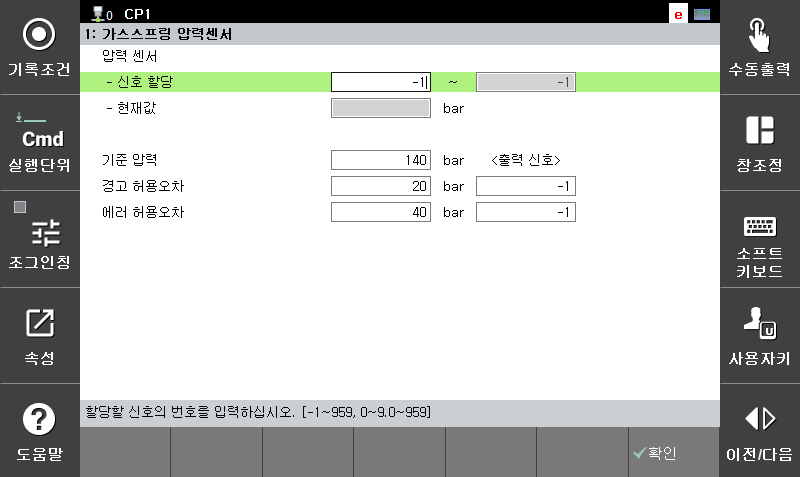
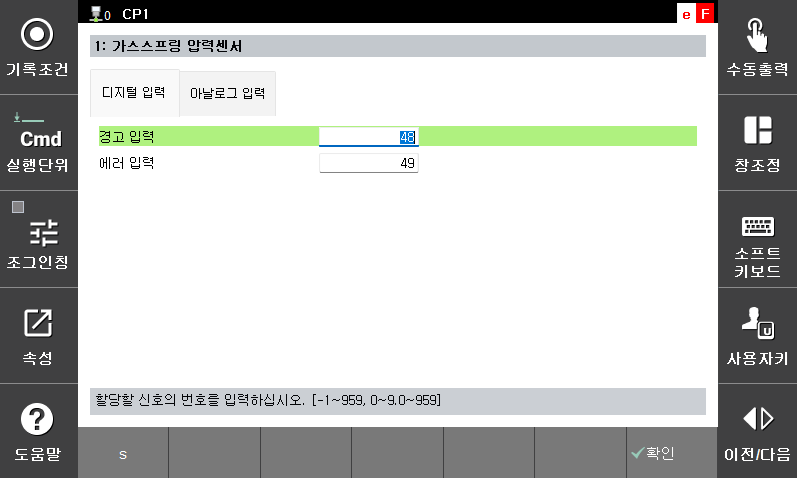
[HIXM-5044] 가스스프링 압력센서 디지털 입력 인터페이스 개발

diff --git a/7-system/4-robot-parameter/13-system-diagnosis/1-gas-spring-pressure_sensor.md b/7-system/4-robot-parameter/13-system-diagnosis/1-gas-spring-pressure_sensor.md
@@ -1,8 +1,40 @@
 # 7.4.13.1 가스스프링 압력센서
 
-가스스프링 압력센서 기능은 가스스프링을 사용하고 여기에 당사에서 지정한 압력센서(PU5400)가 부착된 로봇에서 상시 압력센서의 값을 읽어 가스스프링의 압력 이상을 검출하기 위해 사용합니다.  <br> 
+가스스프링 압력센서 기능은 가스스프링을 사용하고 여기에 당사에서 지정한 압력센서(PN2570)가 부착된 로봇에서 디지털 입력에 의해 경고나 에러를 발생한다던지 또는 아날로그 입력에 의해 상시 압력센서의 값을 읽어 가스스프링의 압력 이상을 검출하기 위해 사용합니다.  <br> 
 
+[디지털 입력] <br>
 ![](../../../_assets/tp630/gasp_sensor.png)
+<table>
+  <thead>
+    <tr>
+      <th style="text-align:left">항목</th>
+      <th style="text-align:left">설명</th>
+    </tr>
+  </thead>
+  <tbody>
+    <tr>
+      <td style="text-align:left">
+        경고 입력
+      </td>
+      <td style="text-align:left">
+        경고를 입력받을 신호의 번호를 설정합니다. 압력센서에서는 계측된 압력이 설정한 허용오차를 벗어났을 때 경고 출력을 할 수 있습니다. 제어기에서는 설정된 신호가 on될때 W21020를 발생합니다.
+      </td>
+    </tr>
+    <tr>
+      <td style="text-align:left"> 
+        에러 입력
+      </td>
+      <td style="text-align:left">
+        에러를 입력받을 신호의 번호를 설정합니다. 압력센서에서는 계측된 압력이 설정한 허용오차를 벗어났을 때 에러 출력을 할 수 있습니다. 제어기에서는 설정된 신호가 on될때 E21020를 발생합니다.
+      </td>
+    </tr>
+  </tbody>
+</table>
+
+<br>
+
+[아날로그 입력] <br>
+![](../../../_assets/tp630/gasp_sensor2.png)
 
 <table>
   <thead>
@@ -17,7 +49,7 @@
         신호 할당
       </td>
       <td style="text-align:left">
-        압력센서의 값이 입력되는 디지털 신호를 설정 합니다 .
+        압력센서의 값이 입력되는 디지털 신호를 설정 합니다.
       </td>
     </tr>
     <tr>
@@ -58,6 +90,8 @@
 </table>
 
 <br>
+
 {% hint style="info" %}
-본 기능은 V60.30.07 이상의 버전에서 지원합니다.    
+* 본 기능은 V70.00.00 이상의 버전에서 지원합니다.    
 {% endhint %}
+
